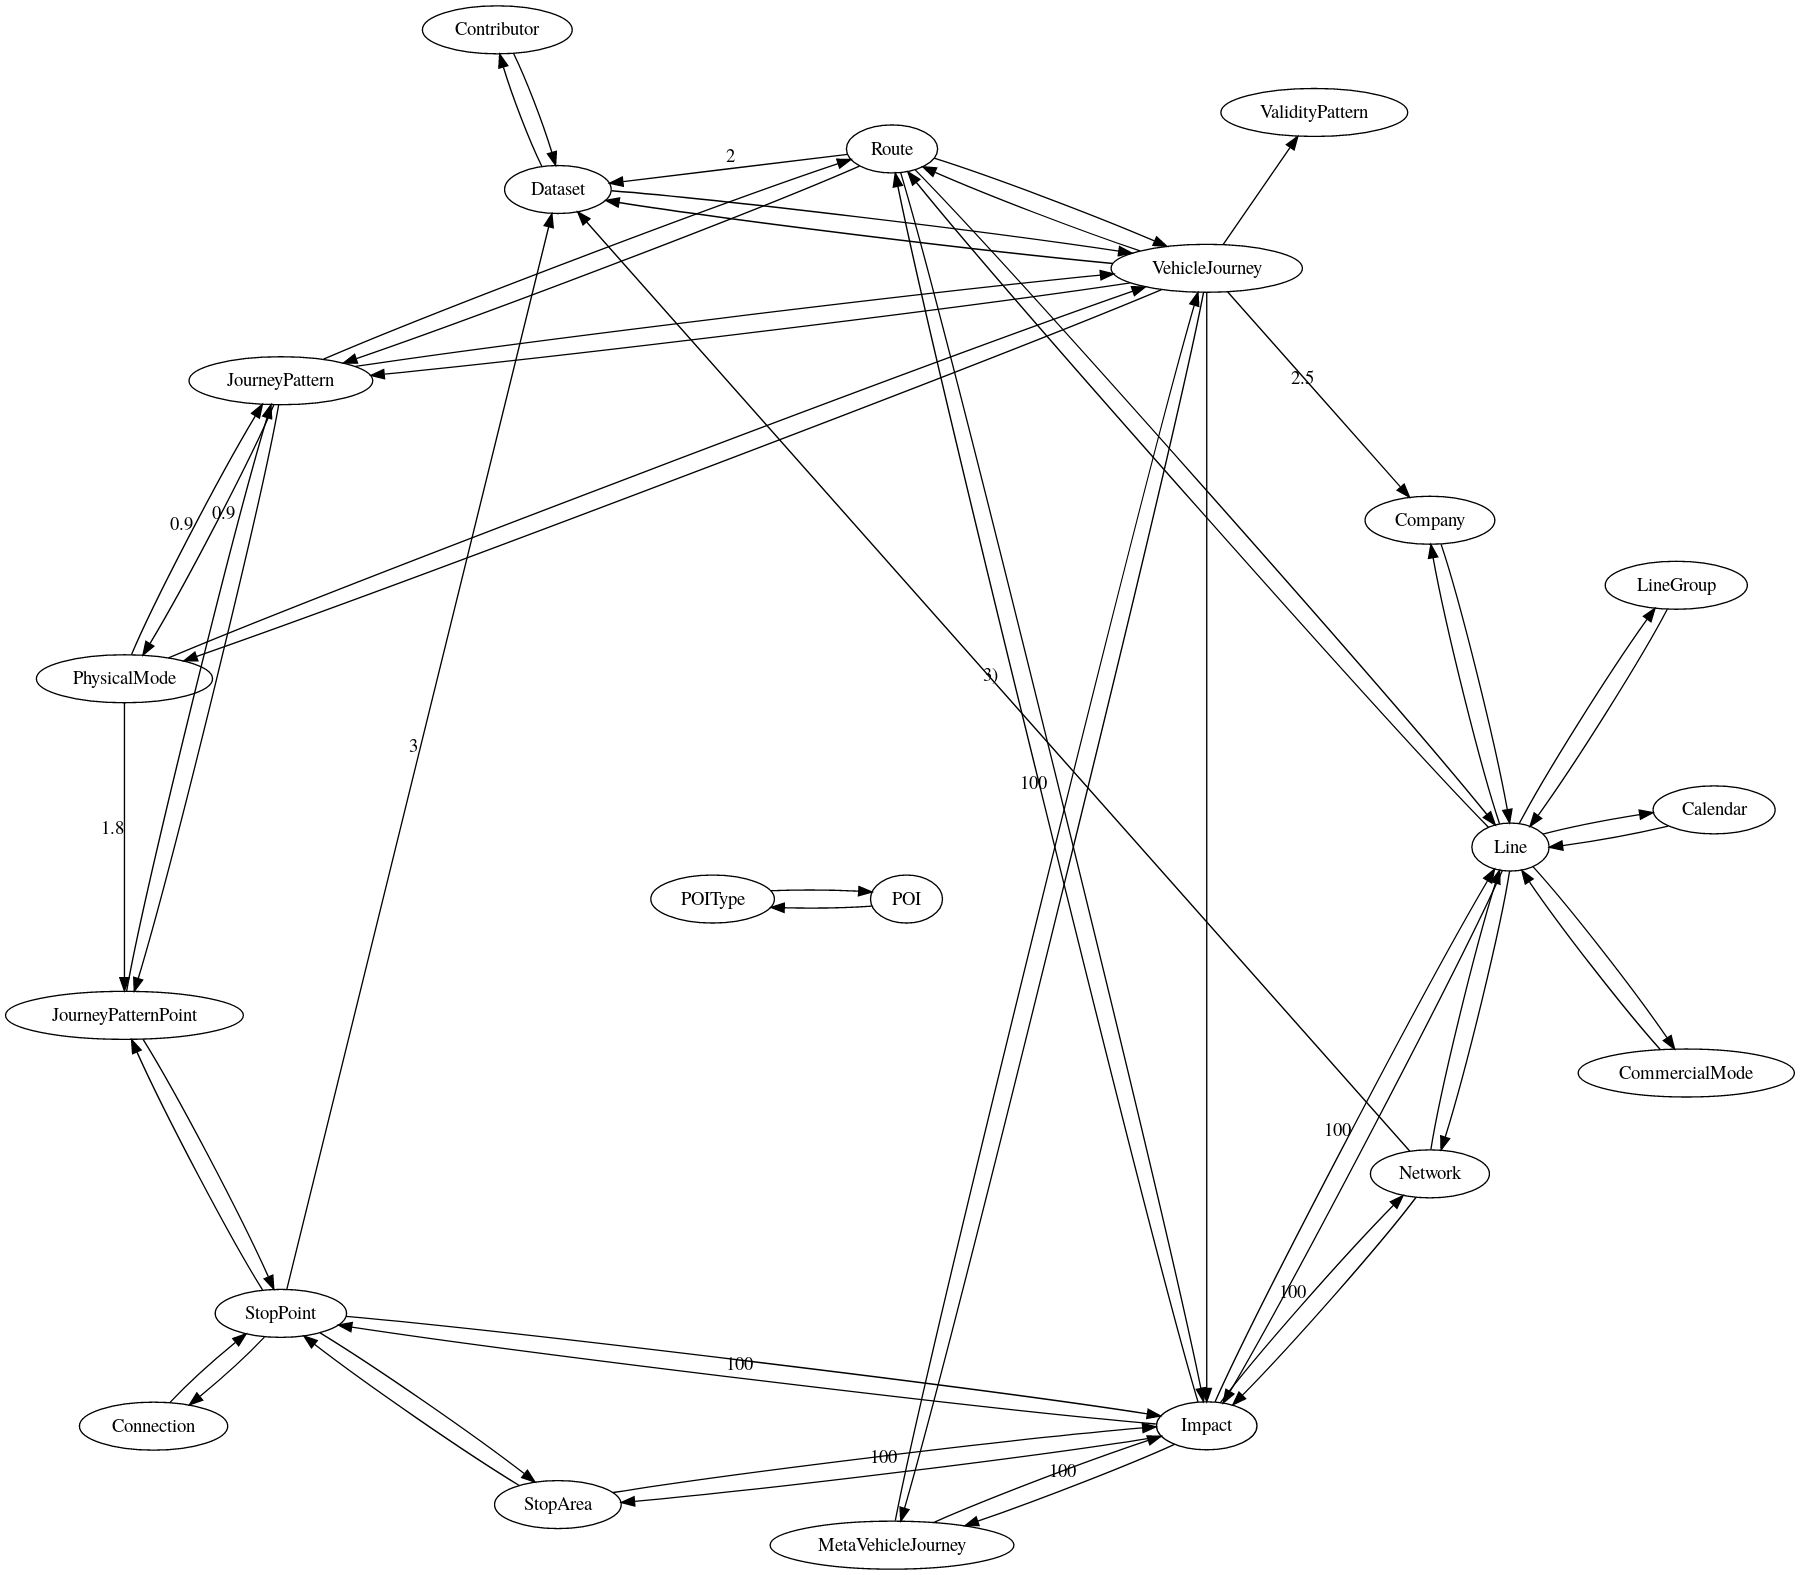
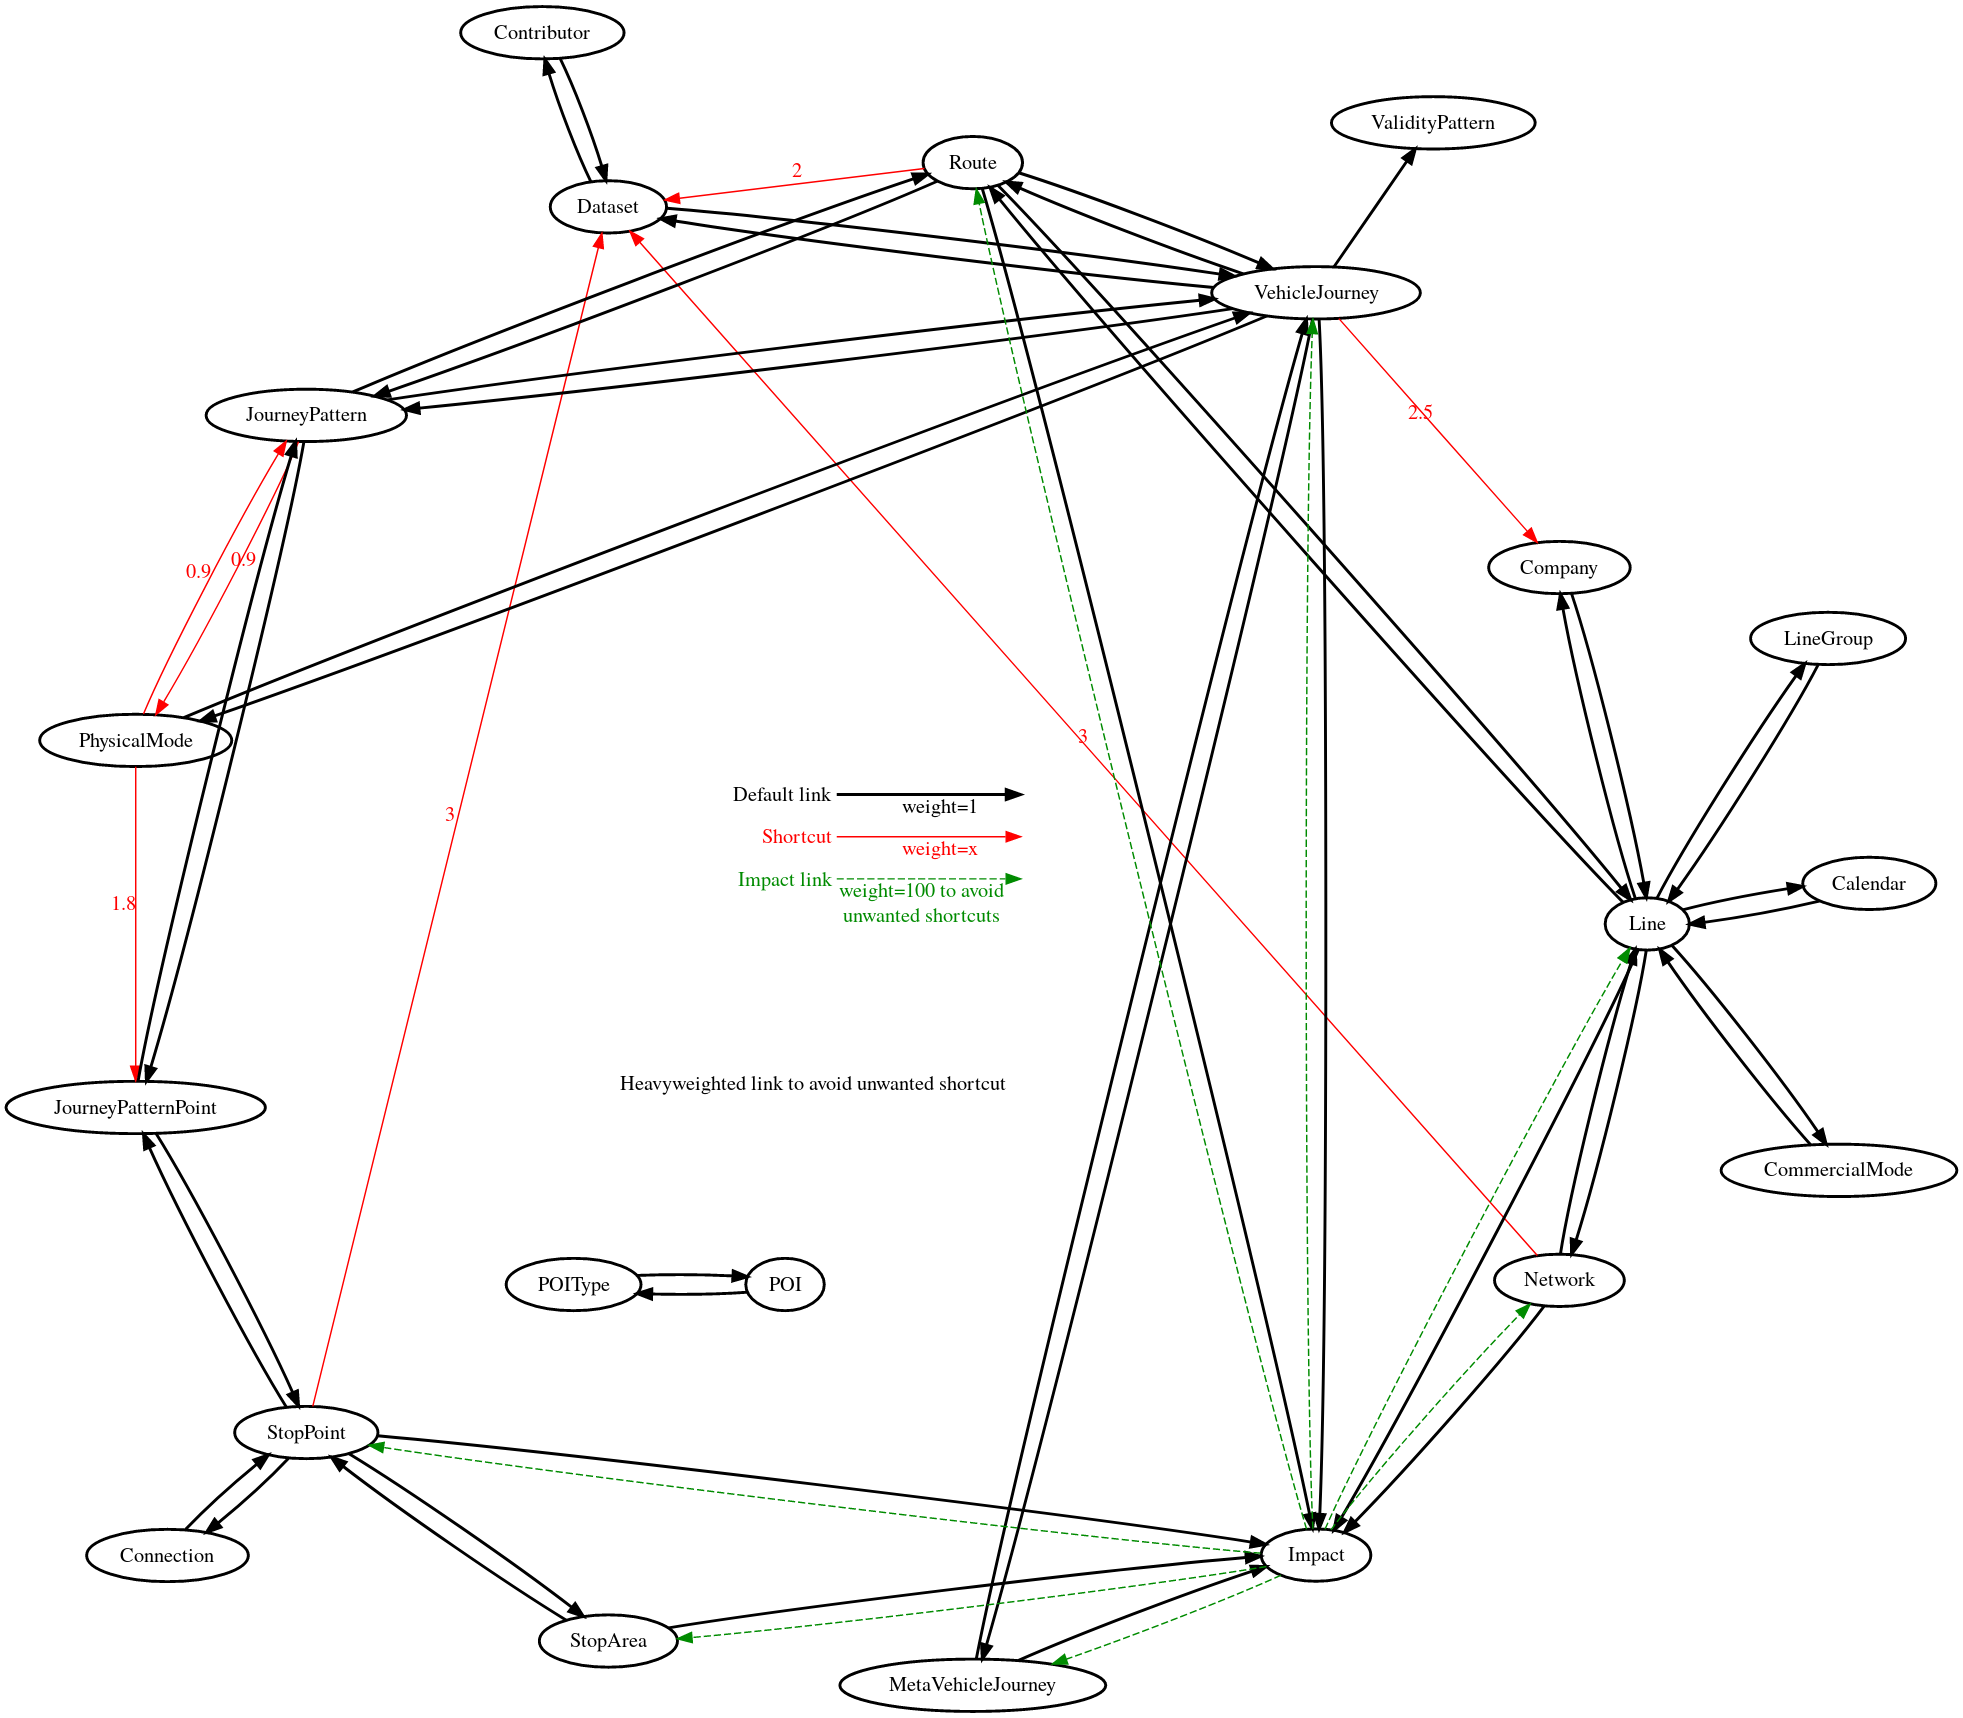
Update pt_graph documentation with legend & shortcuts

diff --git a/documentation/rfc/ptref_grammar.md b/documentation/rfc/ptref_grammar.md
@@ -172,7 +172,7 @@ The graph is as follow (edges may have weight to avoid unwanted behavior):
 
 ![pt_graph](../diagrams/pt_graph.png)
 
-[edit_graph](https://dreampuf.github.io/GraphvizOnline/#%0Adigraph%20G%20%7B%0A%0AStopArea%20-%3E%20StopPoint%0ANetwork%20-%3E%20Line%0ACompany%20-%3E%20Line%0ACommercialMode%20-%3E%20Line%0APhysicalMode%20-%3E%20VehicleJourney%0APhysicalMode%20-%3E%20JourneyPattern%20%5B%20label%3D%220.9%22%20%5D%0APhysicalMode%20-%3E%20JourneyPatternPoint%20%5B%20label%3D%221.8%22%20%5D%0ALine%20-%3E%20CommercialMode%0ALine%20-%3E%20Company%0ALine%20-%3E%20Network%0ALine%20-%3E%20Route%0ARoute%20-%3E%20JourneyPattern%0ARoute%20-%3E%20Line%0ARoute%20-%3E%20VehicleJourney%0AJourneyPattern%20-%3E%20Route%0AJourneyPattern%20-%3E%20JourneyPatternPoint%0AJourneyPattern%20-%3E%20VehicleJourney%0AJourneyPattern%20-%3E%20PhysicalMode%20%5B%20label%3D%220.9%22%20%5D%0AVehicleJourney%20-%3E%20Route%0AVehicleJourney%20-%3E%20JourneyPattern%0AVehicleJourney%20-%3E%20Company%20%5B%20label%3D%222.5%22%20%5D%0AVehicleJourney%20-%3E%20PhysicalMode%0AVehicleJourney%20-%3E%20ValidityPattern%0AVehicleJourney%20-%3E%20MetaVehicleJourney%0AVehicleJourney%20-%3E%20Dataset%0AJourneyPatternPoint%20-%3E%20JourneyPattern%0AJourneyPatternPoint%20-%3E%20StopPoint%0AStopPoint%20-%3E%20StopArea%0AStopPoint%20-%3E%20JourneyPatternPoint%0AStopPoint%20-%3E%20Connection%0AConnection%20-%3E%20StopPoint%0APOIType%20-%3E%20POI%0APOI%20-%3E%20POIType%0ALine%20-%3E%20Calendar%0ACalendar%20-%3E%20Line%0ALine%20-%3E%20LineGroup%0ALineGroup%20-%3E%20Line%0AMetaVehicleJourney%20-%3E%20VehicleJourney%0ADataset%20-%3E%20Contributor%0ADataset%20-%3E%20VehicleJourney%0AContributor%20-%3E%20Dataset%0ARoute%20-%3E%20Dataset%20%5B%20label%3D%222%22%20%5D%0AStopPoint%20-%3E%20Dataset%20%5B%20label%3D%223%22%20%5D%0ANetwork%20-%3E%20Dataset%20%5B%20label%3D%223%22%20%5D%0AStopPoint%20-%3E%20Impact%0ALine%20-%3E%20Impact%0ARoute%20-%3E%20Impact%0AStopArea%20-%3E%20Impact%0ANetwork%20-%3E%20Impact%0AVehicleJourney%20-%3E%20Impact%0AMetaVehicleJourney%20-%3E%20Impact%0AImpact%20-%3E%20Network%20%20%5B%20label%3D%22100%22%20%5D%0AImpact%20-%3E%20Line%20%20%5B%20label%3D%22100%22%20%5D%0AImpact%20-%3E%20Route%20%20%5B%20label%3D%22100%22%20%5D%0AImpact%20-%3E%20StopArea%20%20%5B%20label%3D%22100%22%20%5D%0AImpact%20-%3E%20StopPoint%20%20%5B%20label%3D%22100%22%20%5D%0AImpact%20-%3E%20MetaVehicleJourney%20%20%5B%20label%3D%22100%22%20%5D%0A%0A%7D)
+[edit_graph](https://dreampuf.github.io/GraphvizOnline/#%0Adigraph%20G%20%7B%0A%20%20%20%20subgraph%20cluster_0%20%7B%0A%20%20%20%20%20%20%20%20node%20%5Bstyle%3D%22bold%22%5D%0A%20%20%20%20%20%20%20%20StopArea%20-%3E%20StopPoint%20%5Bstyle%3D%22bold%22%5D%0A%20%20%20%20%20%20%20%20Network%20-%3E%20Line%20%5Bstyle%3D%22bold%22%5D%0A%20%20%20%20%20%20%20%20Company%20-%3E%20Line%20%5Bstyle%3D%22bold%22%5D%0A%20%20%20%20%20%20%20%20CommercialMode%20-%3E%20Line%20%5Bstyle%3D%22bold%22%5D%0A%20%20%20%20%20%20%20%20PhysicalMode%20-%3E%20VehicleJourney%20%5Bstyle%3D%22bold%22%5D%0A%20%20%20%20%20%20%20%20PhysicalMode%20-%3E%20JourneyPattern%20%5B%20label%3D%220.9%22%20fontcolor%3D%22red%22%20color%3D%22red%22%20%5D%0A%20%20%20%20%20%20%20%20PhysicalMode%20-%3E%20JourneyPatternPoint%20%5B%20label%3D%221.8%22%20fontcolor%3D%22red%22%20color%3D%22red%22%20%5D%0A%20%20%20%20%20%20%20%20Line%20-%3E%20CommercialMode%20%5Bstyle%3D%22bold%22%5D%0A%20%20%20%20%20%20%20%20Line%20-%3E%20Company%20%5Bstyle%3D%22bold%22%5D%0A%20%20%20%20%20%20%20%20Line%20-%3E%20Network%20%5Bstyle%3D%22bold%22%5D%0A%20%20%20%20%20%20%20%20Line%20-%3E%20Route%20%5Bstyle%3D%22bold%22%5D%0A%20%20%20%20%20%20%20%20Route%20-%3E%20JourneyPattern%20%5Bstyle%3D%22bold%22%5D%0A%20%20%20%20%20%20%20%20Route%20-%3E%20Line%20%5Bstyle%3D%22bold%22%5D%0A%20%20%20%20%20%20%20%20Route%20-%3E%20VehicleJourney%20%5Bstyle%3D%22bold%22%5D%0A%20%20%20%20%20%20%20%20JourneyPattern%20-%3E%20Route%20%5Bstyle%3D%22bold%22%5D%0A%20%20%20%20%20%20%20%20JourneyPattern%20-%3E%20JourneyPatternPoint%20%5Bstyle%3D%22bold%22%5D%0A%20%20%20%20%20%20%20%20JourneyPattern%20-%3E%20VehicleJourney%20%5Bstyle%3D%22bold%22%5D%0A%20%20%20%20%20%20%20%20JourneyPattern%20-%3E%20PhysicalMode%20%5B%20label%3D%220.9%22%20fontcolor%3D%22red%22%20color%3D%22red%22%20%5D%0A%20%20%20%20%20%20%20%20VehicleJourney%20-%3E%20Route%20%5Bstyle%3D%22bold%22%5D%0A%20%20%20%20%20%20%20%20VehicleJourney%20-%3E%20JourneyPattern%20%5Bstyle%3D%22bold%22%5D%0A%20%20%20%20%20%20%20%20VehicleJourney%20-%3E%20Company%20%5B%20label%3D%222.5%22%20fontcolor%3D%22red%22%20color%3D%22red%22%20%5D%0A%20%20%20%20%20%20%20%20VehicleJourney%20-%3E%20PhysicalMode%20%5Bstyle%3D%22bold%22%5D%0A%20%20%20%20%20%20%20%20VehicleJourney%20-%3E%20ValidityPattern%20%5Bstyle%3D%22bold%22%5D%20%0A%20%20%20%20%20%20%20%20VehicleJourney%20-%3E%20MetaVehicleJourney%20%5Bstyle%3D%22bold%22%5D%0A%20%20%20%20%20%20%20%20VehicleJourney%20-%3E%20Dataset%20%5Bstyle%3D%22bold%22%5D%0A%20%20%20%20%20%20%20%20JourneyPatternPoint%20-%3E%20JourneyPattern%20%5Bstyle%3D%22bold%22%5D%0A%20%20%20%20%20%20%20%20JourneyPatternPoint%20-%3E%20StopPoint%20%5Bstyle%3D%22bold%22%5D%20%0A%20%20%20%20%20%20%20%20StopPoint%20-%3E%20StopArea%20%5Bstyle%3D%22bold%22%5D%0A%20%20%20%20%20%20%20%20StopPoint%20-%3E%20JourneyPatternPoint%20%5Bstyle%3D%22bold%22%5D%0A%20%20%20%20%20%20%20%20StopPoint%20-%3E%20Connection%20%5Bstyle%3D%22bold%22%5D%0A%20%20%20%20%20%20%20%20Connection%20-%3E%20StopPoint%20%5Bstyle%3D%22bold%22%5D%0A%20%20%20%20%20%20%20%20POIType%20-%3E%20POI%20%5Bstyle%3D%22bold%22%5D%0A%20%20%20%20%20%20%20%20POI%20-%3E%20POIType%20%5Bstyle%3D%22bold%22%5D%0A%20%20%20%20%20%20%20%20Line%20-%3E%20Calendar%20%5Bstyle%3D%22bold%22%5D%0A%20%20%20%20%20%20%20%20Calendar%20-%3E%20Line%20%5Bstyle%3D%22bold%22%5D%0A%20%20%20%20%20%20%20%20Line%20-%3E%20LineGroup%20%5Bstyle%3D%22bold%22%5D%0A%20%20%20%20%20%20%20%20LineGroup%20-%3E%20Line%20%5Bstyle%3D%22bold%22%5D%0A%20%20%20%20%20%20%20%20MetaVehicleJourney%20-%3E%20VehicleJourney%20%5Bstyle%3D%22bold%22%5D%0A%20%20%20%20%20%20%20%20Dataset%20-%3E%20Contributor%20%5Bstyle%3D%22bold%22%5D%0A%20%20%20%20%20%20%20%20Dataset%20-%3E%20VehicleJourney%20%5Bstyle%3D%22bold%22%5D%0A%20%20%20%20%20%20%20%20Contributor%20-%3E%20Dataset%20%5Bstyle%3D%22bold%22%5D%0A%20%20%20%20%20%20%20%20Route%20-%3E%20Dataset%20%5B%20label%3D%222%22%20fontcolor%3D%22red%22%20color%3D%22red%22%20%5D%0A%20%20%20%20%20%20%20%20StopPoint%20-%3E%20Dataset%20%5B%20label%3D%223%22%20fontcolor%3D%22red%22%20color%3D%22red%22%20%5D%0A%20%20%20%20%20%20%20%20Network%20-%3E%20Dataset%20%5B%20label%3D%223%22%20fontcolor%3D%22red%22%20color%3D%22red%22%20%5D%0A%20%20%20%20%20%20%20%20StopPoint%20-%3E%20Impact%20%5Bstyle%3D%22bold%22%5D%0A%20%20%20%20%20%20%20%20Line%20-%3E%20Impact%20%5Bstyle%3D%22bold%22%5D%0A%20%20%20%20%20%20%20%20Route%20-%3E%20Impact%20%5Bstyle%3D%22bold%22%5D%0A%20%20%20%20%20%20%20%20StopArea%20-%3E%20Impact%20%5Bstyle%3D%22bold%22%5D%0A%20%20%20%20%20%20%20%20Network%20-%3E%20Impact%20%5Bstyle%3D%22bold%22%5D%0A%20%20%20%20%20%20%20%20VehicleJourney%20-%3E%20Impact%20%5Bstyle%3D%22bold%22%5D%0A%20%20%20%20%20%20%20%20MetaVehicleJourney%20-%3E%20Impact%20%5Bstyle%3D%22bold%22%5D%0A%20%20%20%20%20%20%20%20Impact%20-%3E%20Network%20%20%5B%20style%3D%22dashed%22%20fontcolor%3D%22green4%22%20color%3D%22green4%22%20%5D%0A%20%20%20%20%20%20%20%20Impact%20-%3E%20Line%20%20%5B%20style%3D%22dashed%22%20fontcolor%3D%22green4%22%20color%3D%22green4%22%20%5D%0A%20%20%20%20%20%20%20%20Impact%20-%3E%20Route%20%20%5B%20style%3D%22dashed%22%20fontcolor%3D%22green4%22%20color%3D%22green4%22%20%5D%0A%20%20%20%20%20%20%20%20Impact%20-%3E%20StopArea%20%20%5B%20style%3D%22dashed%22%20fontcolor%3D%22green4%22%20color%3D%22green4%22%20%5D%0A%20%20%20%20%20%20%20%20Impact%20-%3E%20StopPoint%20%20%5B%20style%3D%22dashed%22%20fontcolor%3D%22green4%22%20color%3D%22green4%22%20%5D%0A%20%20%20%20%20%20%20%20Impact%20-%3E%20MetaVehicleJourney%20%20%5B%20style%3D%22dashed%22%20fontcolor%3D%22green4%22%20color%3D%22green4%22%20%5D%0A%20%20%20%20%7D%0A%0A%20%20%20%20subgraph%20cluster_1%20%7B%0A%20%20%20%20%20%20%20%20%23rank%3Dsink%0A%20%20%20%20%20%20%20%20%23rankdir%3DLR%0A%20%20%20%20%20%20%20%20node%20%5Bshape%3Dplaintext%5D%0A%20%20%20%20%20%20%20%20style%3D%22filled%22%0A%20%20%20%20%20%20%20%20style%3Dfilled%0A%09%09color%3Dlightgrey%0A%20%20%20%20%20%20%20%20%23label%20%3D%20%22Legend%22%3B%0A%20%20%20%20%20%20%20%20key%20%5Blabel%3D%3C%3Ctable%20border%3D%220%22%20cellpadding%3D%222%22%20cellspacing%3D%220%22%20cellborder%3D%220%22%3E%0A%20%20%20%20%20%20%20%20%20%20%3Ctr%3E%3Ctd%20align%3D%22right%22%20port%3D%22i1%22%3E%3Cfont%20color%3D%22black%22%3EDefault%20link%3C%2Ffont%3E%3C%2Ftd%3E%3C%2Ftr%3E%0A%20%20%20%20%20%20%20%20%20%20%3Ctr%3E%3Ctd%20align%3D%22right%22%20port%3D%22i2%22%3E%3Cfont%20color%3D%22red%22%3EShortcut%3C%2Ffont%3E%3C%2Ftd%3E%3C%2Ftr%3E%0A%20%20%20%20%20%20%20%20%20%20%3Ctr%3E%3Ctd%20align%3D%22right%22%20port%3D%22i3%22%3E%3Cfont%20color%3D%22green4%22%3EImpact%20link%3C%2Ffont%3E%3C%2Ftd%3E%3C%2Ftr%3E%0A%20%20%20%20%20%20%20%20%20%20%3C%2Ftable%3E%3E%5D%0A%20%20%20%20%20%20%20%20key2%20%5Blabel%3D%3C%3Ctable%20border%3D%220%22%20cellpadding%3D%222%22%20cellspacing%3D%220%22%20cellborder%3D%220%22%3E%0A%20%20%20%20%20%20%20%20%20%20%3Ctr%3E%3Ctd%20port%3D%22i1%22%3E%26nbsp%3B%3C%2Ftd%3E%3C%2Ftr%3E%0A%20%20%20%20%20%20%20%20%20%20%3Ctr%3E%3Ctd%20port%3D%22i2%22%3E%26nbsp%3B%3C%2Ftd%3E%3C%2Ftr%3E%0A%20%20%20%20%20%20%20%20%20%20%3Ctr%3E%3Ctd%20port%3D%22i3%22%3E%26nbsp%3B%3C%2Ftd%3E%3C%2Ftr%3E%0A%20%20%20%20%20%20%20%20%20%20%3C%2Ftable%3E%3E%5D%0A%20%20%20%20%20%20%20%20key%3Ai1%3Ae%20-%3E%20key2%3Ai1%3Aw%20%5B%20label%3D%22weight%3D1%22%20style%3D%22bold%22%5D%0A%20%20%20%20%20%20%20%20key%3Ai2%3Ae%20-%3E%20key2%3Ai2%3Aw%20%5B%20label%3D%22weight%3Dx%22%20fontcolor%3D%22red%22%20color%3D%22red%22%20%5D%0A%20%20%20%20%20%20%20%20key%3Ai3%3Ae%20-%3E%20key2%3Ai3%3Aw%20%5B%20label%3D%22weight%3D100%22%20style%3D%22dashed%22%20fontcolor%3D%22green4%22%20color%3D%22green4%22%20%5D%0A%20%20%20%20%20%20%7D%0A%20%20%0A%7D)
 
 ## Advanced examples
 
